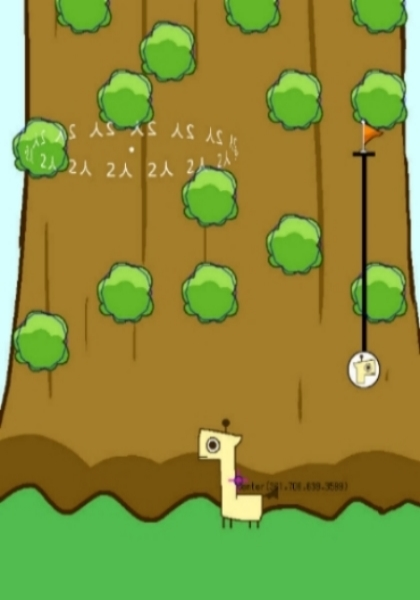
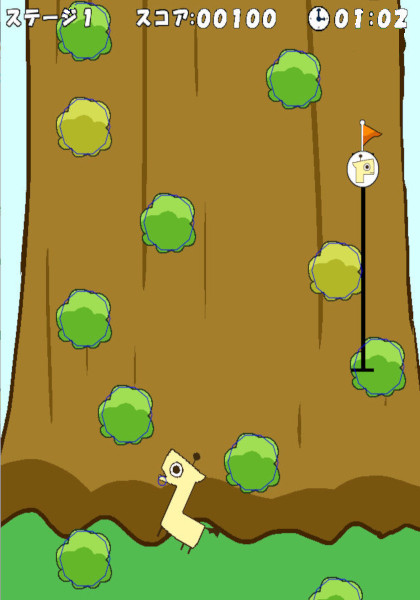
追加

diff --git a/Scenes/Tutorial.cs b/Scenes/Tutorial.cs
@@ -39,28 +39,29 @@ namespace Giraffe
         private int select1 = ResourceLoader.GetGraph("select_3.png");
         private int select2 = ResourceLoader.GetGraph("select_4.png");
         private int setumei = ResourceLoader.GetGraph("プレイ画面スクショ.jpg");
-        private int bg = ResourceLoader.GetGraph("t.bg.png");
         private int window = ResourceLoader.GetGraph("mes11_02.png");
         private int playbg = ResourceLoader.GetGraph("play_bg.png");
         private int waku = ResourceLoader.GetGraph("waku.png");
         private int mes = ResourceLoader.GetGraph("mes11_02_.png");
+        private int stagename2 = ResourceLoader.GetGraph("image_play/stagename_0.png");
 
         int y = 502;//キリンの頭の座標
 
         string[] GamenText = new string[]//画面説明用コメント
         {
-          "画面説明です",//1
-          "この生き物はキリン、このゲームの主人公。 ","プレーヤーはこのキャラを操作します",//2.3
-          "これは木の枝です。プレイヤーは、","つかまって上に登っていくことができます",//4,5
-          "スコアです。木の枝に噛みつく、ゴール","までにかかった時間の速さなどで","スコアが増加します",//6,7,8
-          "ミニマップです、ミニマップ上のキリンの","アイコンは,マップ上のキリンの","位置を表します",//9,10,11
-          "タイマーです。スタートからゴールまでに","かかった時間がここに表示されます",//11,12
-          "チュートリアル画面トップへ戻りますか？","戻る場合は決定ボタンを押してください"//13,14
+          "画面説明です",//画面説明,1
+          "この生き物はキリン、このゲームの主人公。 ","プレーヤーはこのキャラを操作します",//キリン,2.3
+          "これは木の枝です。プレイヤーは、","つかまって上に登っていくことができます",//木の枝,4,5
+          "ステージ名です。ここに今遊んでいる","ステージの名前が表示されます",//ステージ名,6,7
+          "スコアです。木の枝に噛みつく、ゴール","までにかかった時間の速さなどで","スコアが増加します",//8,8,10
+          "ミニマップです、ミニマップ上のキリンの","アイコンは,マップ上のキリンの","位置を表します",//11,12,13
+          "タイマーです。スタートからゴールまでに","かかった時間がここに表示されます",//14,15
+          "チュートリアル画面トップへ戻りますか？","戻る場合は決定ボタンを押してください"//16,17
         };
 
         string[] Gamennamae = new string[] //画面説明項目用コメント
         {
-            "～画面説明～","・キリン","・木の枝",
+            "～画面説明～","・キリン","・木の枝","・ステージ名",
             "・スコア", "・ミニマップ", "・タイマー", "・画面説明を終了"
         };
 
@@ -79,7 +80,12 @@ namespace Giraffe
             "チュートリアル画面トップへ戻ります",//戻る,16
             "それではやってみましょう",//宣告,17
             "OK!",//OK!,18
-            "操作ゲージ"//やってみよう,19
+            "操作ゲージ",//やってみよう,19
+            "それでは右に移動してみましょう",//20
+            "それでは左に移動してみましょう",//21
+            "それでは2回ジャンプしてみましょう",//22
+            "それでは木に噛みついてみましょう",//23
+            "では首を伸ばしてリ縮めたりしてみましょう",//24
         };
 
 
@@ -124,8 +130,8 @@ namespace Giraffe
                 DX.SetFontSize(25);
                 DX.SetFontThickness(100);
                 DX.ChangeFontType(DX.DX_FONTTYPE_ANTIALIASING_EDGE);
-                DX.DrawGraph(0, 0, bg);
-                DX.DrawGraph(-20, 30, setumei);
+               
+                DX.DrawGraph(0, 30, setumei);
                 DX.DrawGraph(-150, 615, window);
                 DX.DrawGraph(390, 30, waku);
                 DX.DrawString(420, 75, Gamennamae[0], white);
@@ -135,6 +141,8 @@ namespace Giraffe
                 DX.DrawString(400, 342, Gamennamae[4], white);
                 DX.DrawString(400, 410, Gamennamae[5], white);
                 DX.DrawString(400, 475, Gamennamae[6], white);
+                DX.DrawString(400, 540, Gamennamae[7], white);
+                DX.DrawGraph(0, -20, stagename2);
             }
             if (count == 1)//画面説明(タイトル)
             {
@@ -145,40 +153,45 @@ namespace Giraffe
             {
                 DX.DrawString(50, 638, GamenText[1], white);
                 DX.DrawString(50, 674, GamenText[2], white);
-                DX.DrawLine(410, 172, 520, 172, black);
-                DX.DrawBox(180, 460, 250, 560, black, DX.FALSE);
+                DX.DrawBox(410, 172, 520, 174, black,DX.TRUE);
             }
             if (count == 3)//画面説明(木の枝)
             {
                 DX.DrawString(50, 638, GamenText[3], white);
                 DX.DrawString(50, 674, GamenText[4], white);
-                DX.DrawLine(410, 237, 520, 237, black, DX.FALSE);
+                DX.DrawBox(410, 237, 520, 239, black, DX.TRUE);
             }
-            if (count == 4)//画面説明(スコア)
+            if (count == 4)//画面説明(ステージ名)
             {
                 DX.DrawString(50, 638, GamenText[5], white);
                 DX.DrawString(50, 674, GamenText[6], white);
-                DX.DrawString(50, 705, GamenText[7], white);
-                DX.DrawLine(410, 304, 520, 304, black, DX.FALSE);
+                DX.DrawBox(410, 304, 570, 306, black, DX.TRUE);
             }
-            if (count == 5)//画面説明(ミニマップ)
+            if (count == 5)//画面説明(スコア)
             {
-                DX.DrawString(50, 638, GamenText[8], white);
-                DX.DrawString(50, 674, GamenText[9], white);
-                DX.DrawString(50, 705, GamenText[10], white);
-                DX.DrawLine(410, 370, 570, 370, black, DX.FALSE);
+                DX.DrawString(50, 638, GamenText[7], white);
+                DX.DrawString(50, 674, GamenText[8], white);
+                DX.DrawString(50, 705, GamenText[9], white);
+                DX.DrawBox(410, 370, 520, 372, black, DX.TRUE);
             }
-            if (count == 6)//画面説明(タイマー)
+            if (count == 6)//画面説明(ミニマップ)
             {
-                DX.DrawString(50, 638, GamenText[11], white);
-                DX.DrawString(50, 674, GamenText[12], white);
-                DX.DrawLine(410, 437, 540, 437, black, DX.FALSE);
+                DX.DrawString(50, 638, GamenText[10], white);
+                DX.DrawString(50, 674, GamenText[11], white);
+                DX.DrawString(50, 705, GamenText[12], white);
+                DX.DrawBox(410, 437, 570, 439, black, DX.TRUE);
             }
-            if (count == 7)//画面説明(修了)
+            if (count == 7)//画面説明(タイマー)
             {
                 DX.DrawString(50, 638, GamenText[13], white);
                 DX.DrawString(50, 674, GamenText[14], white);
-                DX.DrawLine(410, 502, 620, 502, black, DX.FALSE);
+                DX.DrawBox(410, 502, 540, 504, black, DX.TRUE);
+            }
+            if(count==8)//画面説明(修了)
+            {
+                DX.DrawString(50, 638, GamenText[15], white);
+                DX.DrawString(50, 674, GamenText[16], white);
+                DX.DrawBox(410, 568, 620, 570, black, DX.TRUE);
             }
             if (count >= 99)//操作画面(タイトル)
             {
@@ -194,6 +207,7 @@ namespace Giraffe
                 DX.DrawString(580, 120, SousaText[19], black);//OK!
                 DX.DrawBox(98, 133, 602, 162, black, DX.FALSE);//進行ゲージ外枠
                 DX.DrawString(110, 115, SousaText[20], black);
+                DX.DrawGraph(0, 160, stagename2);
 
                 if (count >= 99 && count <= 100)//右
                 {
@@ -204,7 +218,7 @@ namespace Giraffe
                     }
                     if (CommentTime == 120)
                     {
-                        DX.DrawString(100, 90, SousaText[18], black);
+                        DX.DrawString(100, 90, SousaText[21], black);
                     }
 
                 }
@@ -217,7 +231,7 @@ namespace Giraffe
                     }
                     if ( CommentTime == 120)
                     {
-                        DX.DrawString(100, 90, SousaText[18], black);
+                        DX.DrawString(100, 90, SousaText[22], black);
                     }
                 }
                 if (count >= 103 && count <= 104)//ジャンプ
@@ -229,7 +243,7 @@ namespace Giraffe
                     }
                     if ( CommentTime == 120)
                     {
-                        DX.DrawString(100, 90, SousaText[18], black);
+                        DX.DrawString(100, 90, SousaText[23], black);
                     }
                 }
                 if (count >= 105 && count <= 106)//噛みつき
@@ -241,7 +255,7 @@ namespace Giraffe
                     }
                     if (CommentTime == 120)
                     {
-                        DX.DrawString(100, 90, SousaText[18], black);
+                        DX.DrawString(100, 90, SousaText[24], black);
                     }
                 }
                 if (count >= 107 && count <= 108)//方向転換
@@ -266,7 +280,7 @@ namespace Giraffe
                     }
                     if (CommentTime == 120)
                     {
-                        DX.DrawString(100, 90, SousaText[18], black);
+                        DX.DrawString(100, 90, SousaText[25], black);
                     }
                 }
                 if (count == 111)
@@ -346,16 +360,16 @@ namespace Giraffe
                     count -= 1;
                 }
             }
-            if (count >= 7 && count <= 10)
+            if (count >= 8 && count <= 10)
             {
-                count = 7;
+                count = 8;
             }
             else if (count <= 98 && count >= 11)
             {
                 count = 99;
             }
 
-            if (count == 7 && Input.ACTION.IsPush())
+            if (count == 8 && Input.ACTION.IsPush())
             {
                 count = 0;
                 y = 502;
